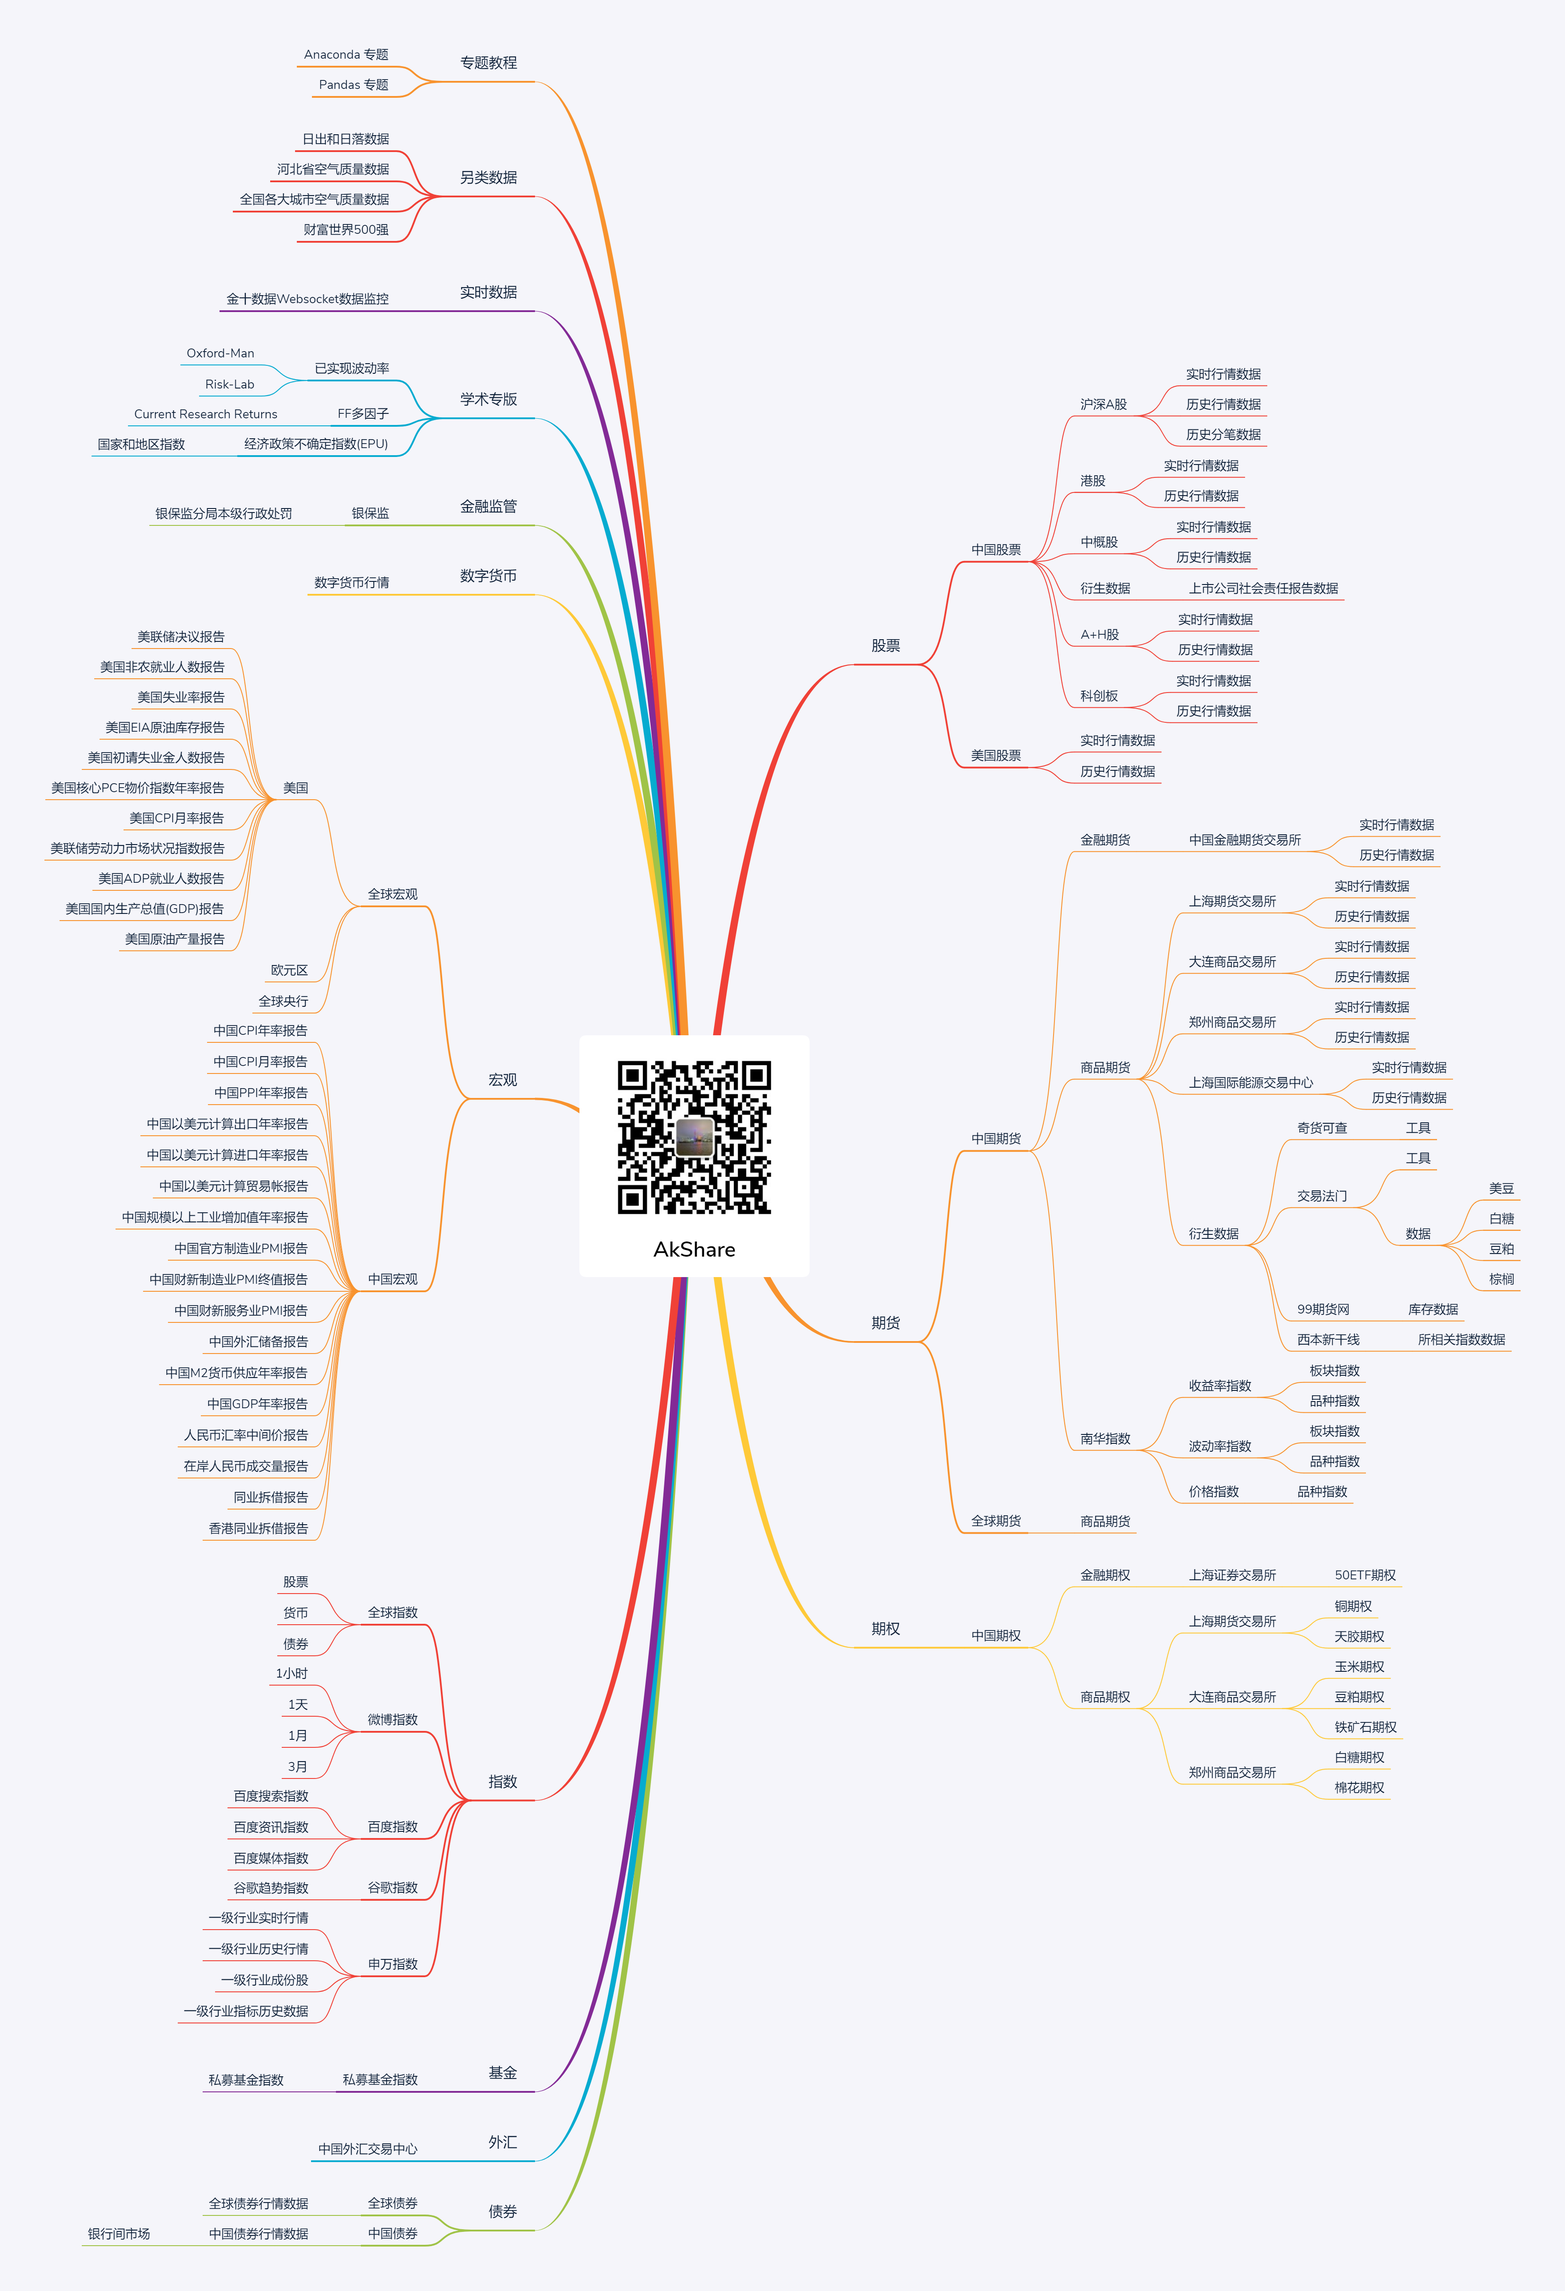
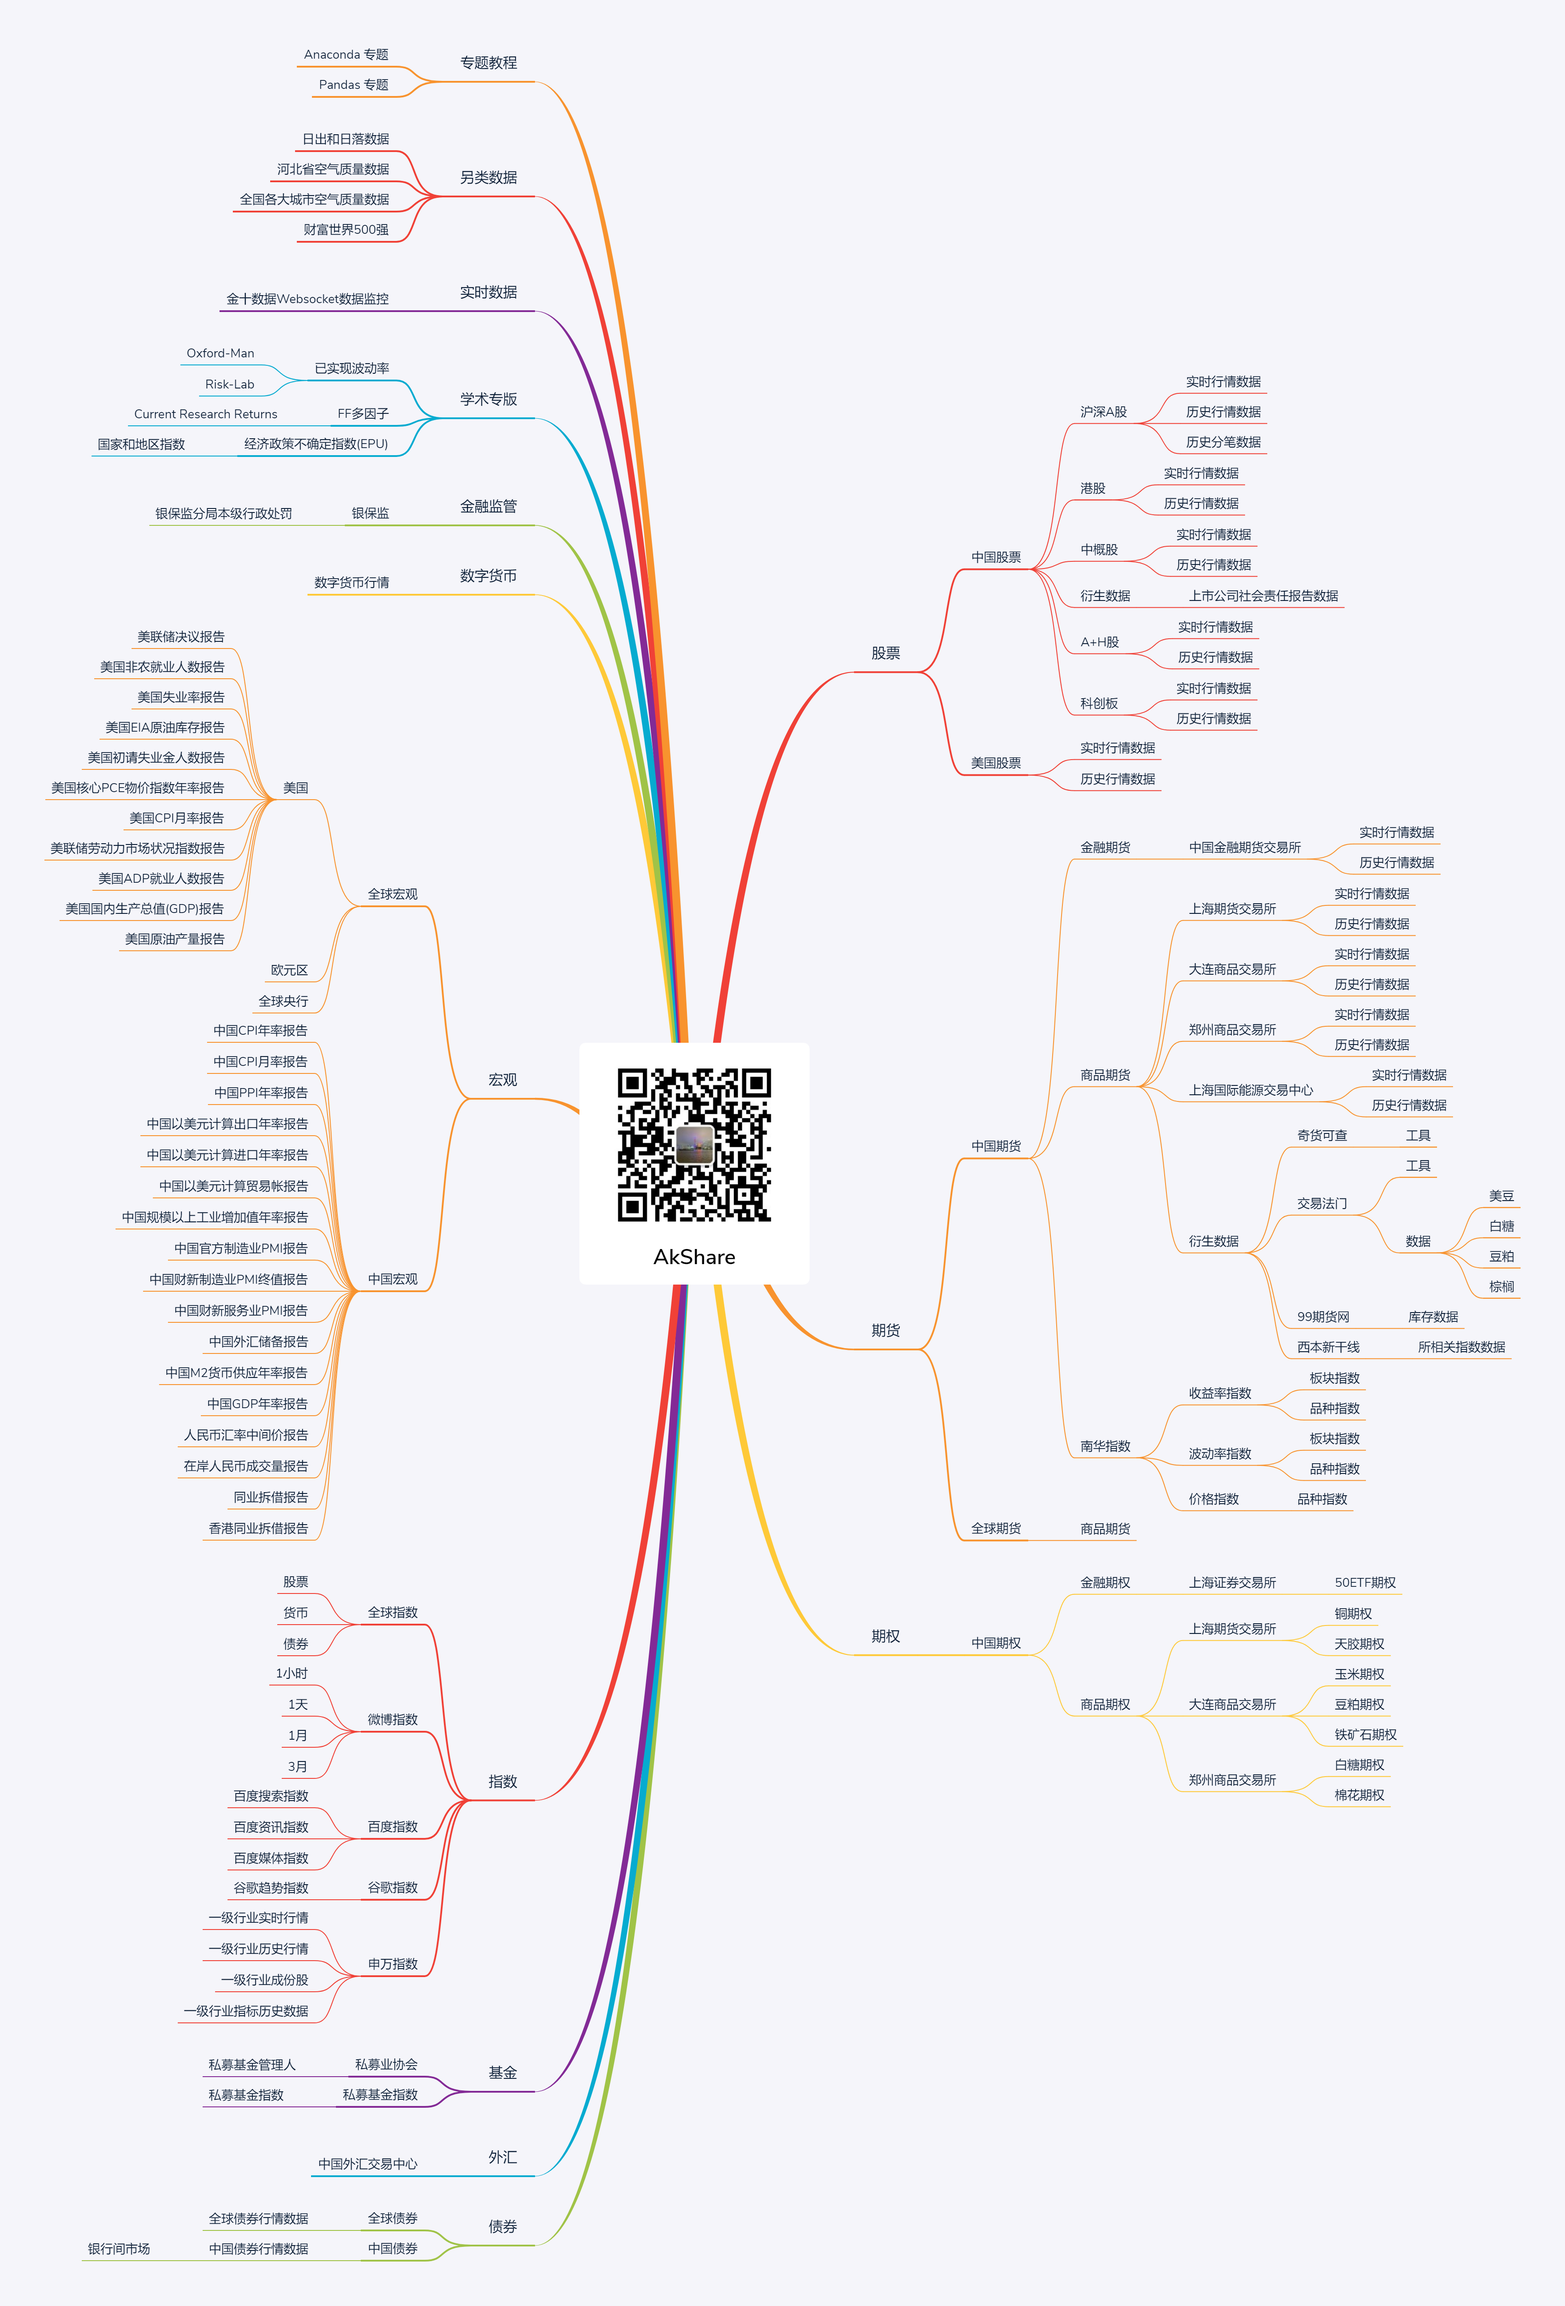
0.2.94 增加私募基金管理人信息公示接口

diff --git a/akshare/fund/manager_amac.py b/akshare/fund/manager_amac.py
@@ -1,0 +1,72 @@
+"""
+Author: Guo Yangyang
+date: 2019/12/14 19:54
+contact: guoyangyang_1994@163.com
+desc:
+获取中国证券投资基金业协会-信息公示-私募基金管理人公示
+http://gs.amac.org.cn
+"""
+from operator import itemgetter
+import requests
+import pandas as pd
+import time
+
+
+def get_data():
+    """
+    获取 中国证券投资基金业协会-信息公示-私募基金管理人公示 数据
+    """
+    manager_url = 'http://gs.amac.org.cn/amac-infodisc/api/pof/manager?rand=0.1906342132667007&page=0&size=50000'
+    payload = {}
+    headers = {
+        'Content-Type': 'application/json',
+    }
+    res = requests.post(url=manager_url, json=payload, headers=headers)  # 请求数据
+    res.encoding = "utf-8"
+    json_df = res.json()
+    return json_df
+
+
+def amac_manager_info(update=False):
+    """
+    处理 中国证券投资基金业协会-信息公示-私募基金管理人公示 数据
+    """
+    if not update:
+        return pd.read_csv("https://jfds-1252952517.cos.ap-chengdu.myqcloud.com/akshare/data/data_amac/amac.csv", index_col=0)
+    data = get_data()
+    need_data = data["content"]
+
+    keys_list = [
+        'managerName',
+        'artificialPersonName',
+        'primaryInvestType',
+        'registerProvince',
+        'registerNo',
+        'establishDate',
+        'registerDate'
+    ]  # 定义要取的 value 的 keys
+    manager_data_out = pd.DataFrame()
+    # 根据keys取出所有的data
+    for i in range(len(need_data)):
+        manager_data = itemgetter(*keys_list)(need_data[i])
+        manager_data = pd.DataFrame(manager_data).T
+        manager_data.columns = ['私募基金管理人名称',
+                                '法定代表人/执行事务合伙人(委派代表)姓名',
+                                '机构类型',
+                                '注册地',
+                                '登记编号',
+                                '成立时间',
+                                '登记时间']
+        manager_data_out = manager_data_out.append(manager_data, ignore_index=True)
+
+    # 将时间戳转换为"XXXX-XX-XX"形式
+    manager_data_out['成立时间'] = list(map(lambda y: time.strftime("%Y-%m-%d", y),
+                                        map(lambda x: time.localtime(x), manager_data_out['成立时间'] / 1000)))
+    manager_data_out['登记时间'] = list(map(lambda y: time.strftime("%Y-%m-%d", y),
+                                        map(lambda x: time.localtime(x), manager_data_out['登记时间'] / 1000)))
+    return manager_data_out
+
+
+if __name__ == "__main__":
+    manager_df = amac_manager_info(update=False)
+    print(manager_df.columns)

diff --git a/akshare/__init__.py b/akshare/__init__.py
@@ -420,10 +420,17 @@ pypinyin 降级
 更新中国债券市场行情数据接口
 0.2.93
 增加自动测试模型
+0.2.94
+增加私募基金管理人信息公示接口
 """
 
-__version__ = "0.2.93"
+__version__ = "0.2.94"
 __author__ = "Albert King"
+
+"""
+中国证券投资基金业协会-信息公示-私募基金管理人公示
+"""
+from akshare.fund.manager_amac import amac_manager_info
 
 """
 世界五百强公司排名接口

diff --git a/docs/source/data/fund/fund.md b/docs/source/data/fund/fund.md
@@ -75,3 +75,58 @@ zdzk_se:
 图片示例
 
 ![](https://jfds-1252952517.cos.ap-chengdu.myqcloud.com/akshare/readme/index/zdzd_index.png)
+
+## [AkShare](https://github.com/jindaxiang/akshare) 中国基金业协会数据
+
+### 私募基金管理人公示
+
+接口: amac_manager_info
+
+目标地址: http://gs.amac.org.cn/amac-infodisc/res/pof/manager/index.html
+
+描述: 获取中国证券投资基金业协会-信息公示-私募基金管理人公示
+
+限量: 单次返回当前时刻所有私募基金管理人的所有历史数据
+
+输入参数
+
+| 名称   | 类型 | 必选 | 描述 |
+| -------- | ---- | ---- | --- |
+| update | Bool  | Y    |   update=False, 默认; update=True, 自动更新数据|
+
+输出参数
+
+| 名称          | 类型 | 默认显示 | 描述           |
+| --------------- | ----- | -------- | ---------------- |
+| 私募基金管理人名称      | str   | Y        | -  |
+| 法定代表人/执行事务合伙人(委派代表)姓名      | float   | Y        | -   |
+| 机构类型      | float   | Y        | -   |
+| 注册地      | float   | Y        | -   |
+| 登记编号      | float   | Y        | -   |
+| 成立时间      | float   | Y        | -   |
+| 登记时间      | float   | Y        | -   |
+
+接口示例
+
+```python
+import akshare as ak
+manager_df = ak.amac_manager_info(update=False)
+print(manager_df)
+```
+
+数据示例
+
+```
+                  私募基金管理人名称 法定代表人/执行事务合伙人(委派代表)姓名  ...        成立时间        登记时间
+0          平安道远投资管理（上海）有限公司                   杨晓华  ...  2011-03-15  2014-03-17
+1            上海重阳投资管理股份有限公司                   裘国根  ...  2009-06-26  2014-03-17
+2              上海景林资产管理有限公司                   高云程  ...  2012-06-06  2014-03-17
+3            富舜资产管理（上海）有限公司                    周楠  ...  2012-02-10  2014-03-17
+4                深圳民森投资有限公司                    蔡明  ...  2007-04-05  2014-03-17
+                     ...                   ...  ...         ...         ...
+24559        广州永泓股权投资管理有限公司                   黄铁勇  ...  2018-06-20  2019-12-10
+24560     深圳市前海科控港深创业投资有限公司                    陈玮  ...  2019-04-24  2019-12-10
+24561          珠海正方投资管理有限公司                   丁晓明  ...  2018-09-07  2019-12-10
+24562       国电投清洁能源基金管理有限公司                   王锐兵  ...  2019-05-17  2019-12-10
+24563  深圳元浩股权投资管理合伙企业（有限合伙）                    陈杰  ...  2019-06-17  2019-12-10
+```

diff --git a/README.md b/README.md
@@ -129,6 +129,8 @@ pip install akshare --upgrade
 
 感谢[财富网站](http://www.fortunechina.com/)提供财富企业世界500强数据;
 
+感谢[中国证券投资基金业协会](http://gs.amac.org.cn/)提供私募基金数据;
+
 感谢[微信公众号: Python大咖谈](https://upload-images.jianshu.io/upload_images/3240514-61004f2c71be4a0b.png)提供的 Pandas 教程.
 
 ## Communication

diff --git a/docs/source/akshare/ak-special.md b/docs/source/akshare/ak-special.md
@@ -62,6 +62,8 @@
 
 感谢[财富网站](http://www.fortunechina.com/)提供财富企业世界500强数据;
 
+感谢[中国证券投资基金业协会](http://gs.amac.org.cn/)提供私募基金数据;
+
 感谢[微信公众号: Python大咖谈](https://upload-images.jianshu.io/upload_images/3240514-61004f2c71be4a0b.png)提供的 Pandas 教程.
 
 ## 交流

diff --git a/docs/source/akshare/ak-changelog.md b/docs/source/akshare/ak-changelog.md
@@ -560,4 +560,7 @@ pypinyin 降级
 
 0.2.93
 增加自动测试模型
+
+0.2.94
+增加私募基金管理人信息公示接口
 ```
